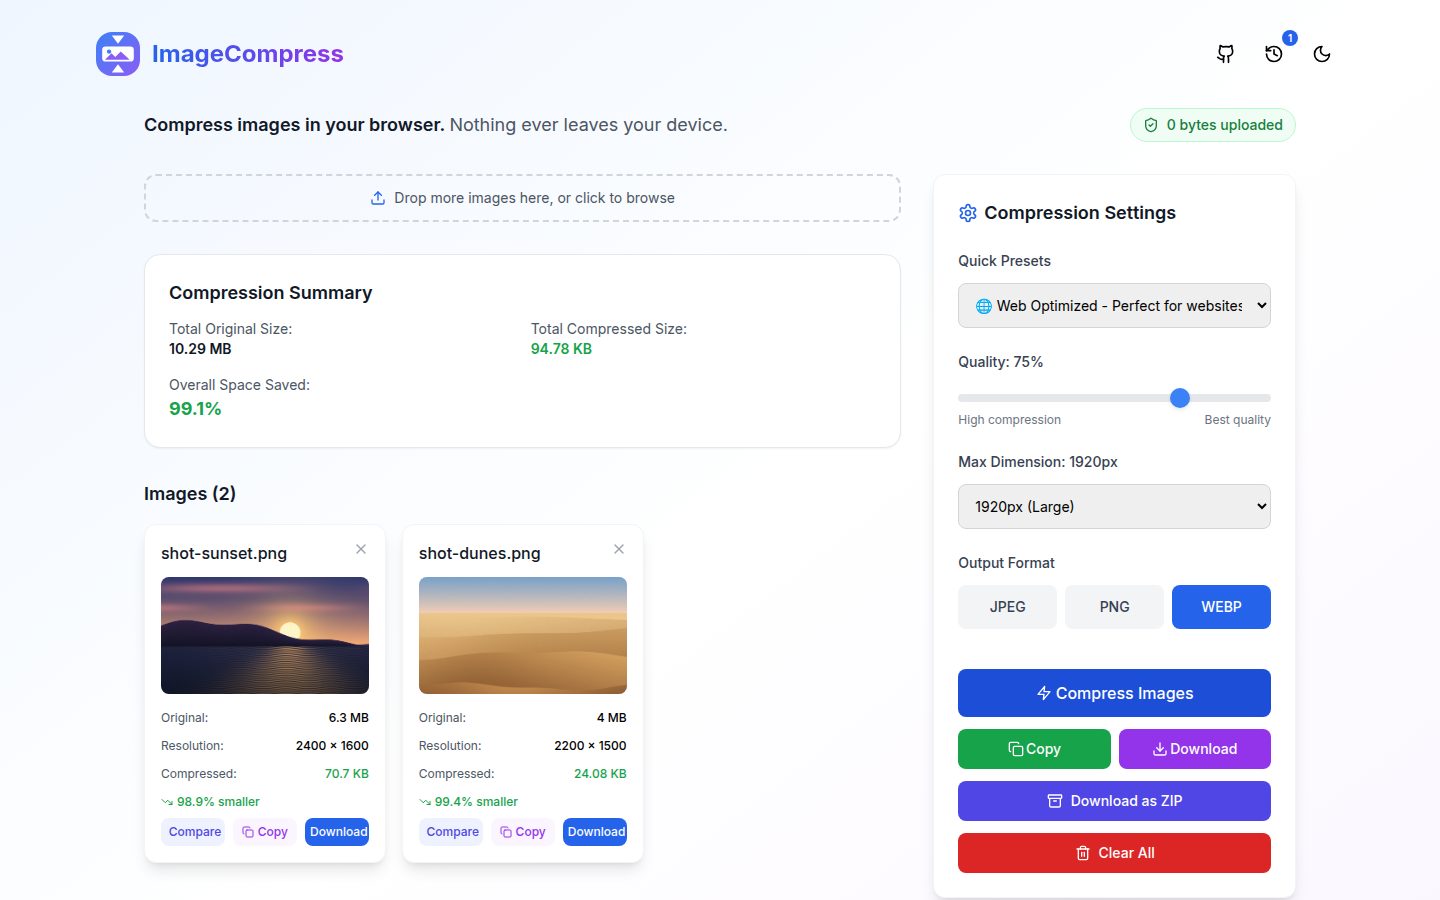
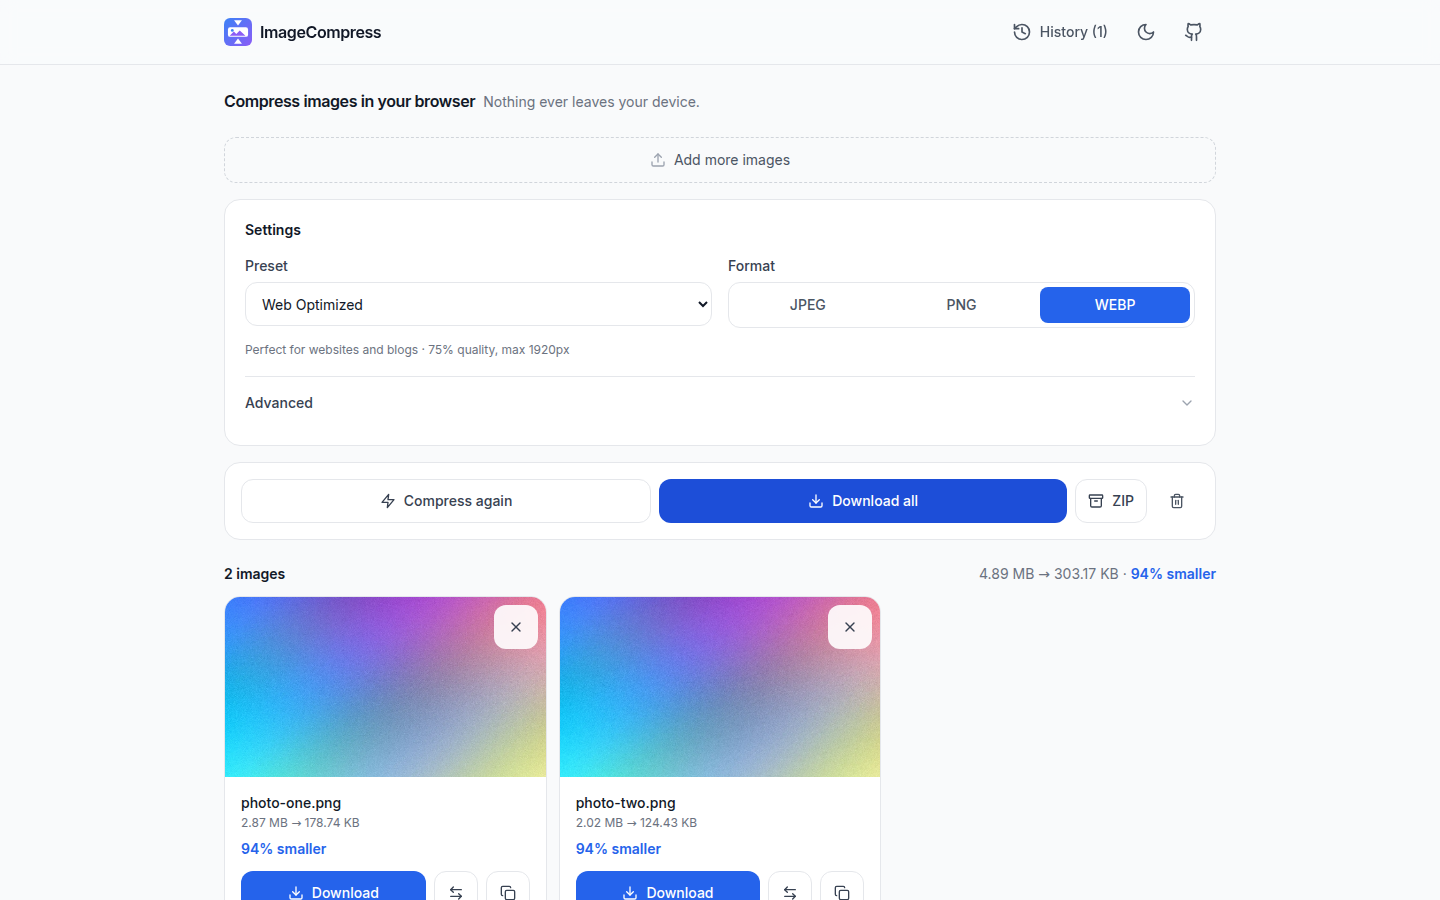
docs: refresh screenshot for redesigned UI
Final browser verification of the minimalist responsive redesign (7f817fc)
against Playwright at 1440x900, 390x844 and 360x800: happy-path
upload/compress/download/ZIP/history/dark-mode/dialog flows, no horizontal
overflow, >=44px touch targets, zero console errors, Radix description
warning absent, and no pre-paint theme flash in either OS/stored-theme
direction. No blocker-level regressions found, so no source changes were
needed. Replaced images/screenshot.png with a fresh 1440x900 light-mode
capture of the new layout and updated its README alt text to match the
actual figures shown.

Claude-Session: https://claude.ai/code/session_01GNNR8HriDWaAphtKfpdLqF

diff --git a/README.md b/README.md
@@ -51,7 +51,7 @@ install the app and go offline — it behaves identically.
 
 ## Screenshot
 
-![The ImageCompress workspace after a run: two photos compressed from 10.29 MB to 94.78 KB, showing the drop zone, the compression settings and the results grid](images/screenshot.png)
+![The ImageCompress workspace after a run: two photos compressed from 4.89 MB to 303.17 KB (94% smaller), showing the drop zone, the compression settings and the results grid](images/screenshot.png)
 
 ## Privacy
 
